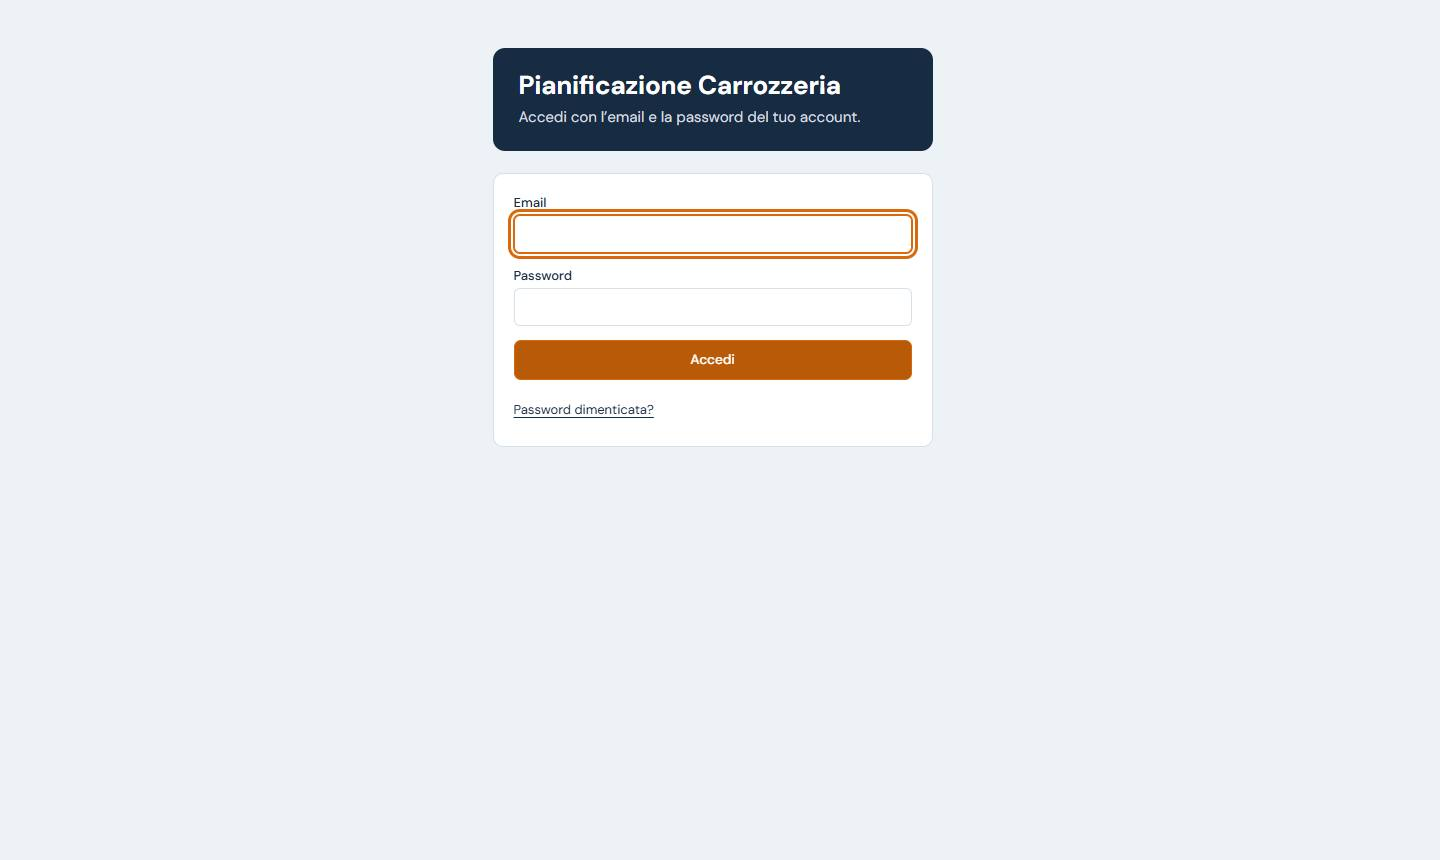
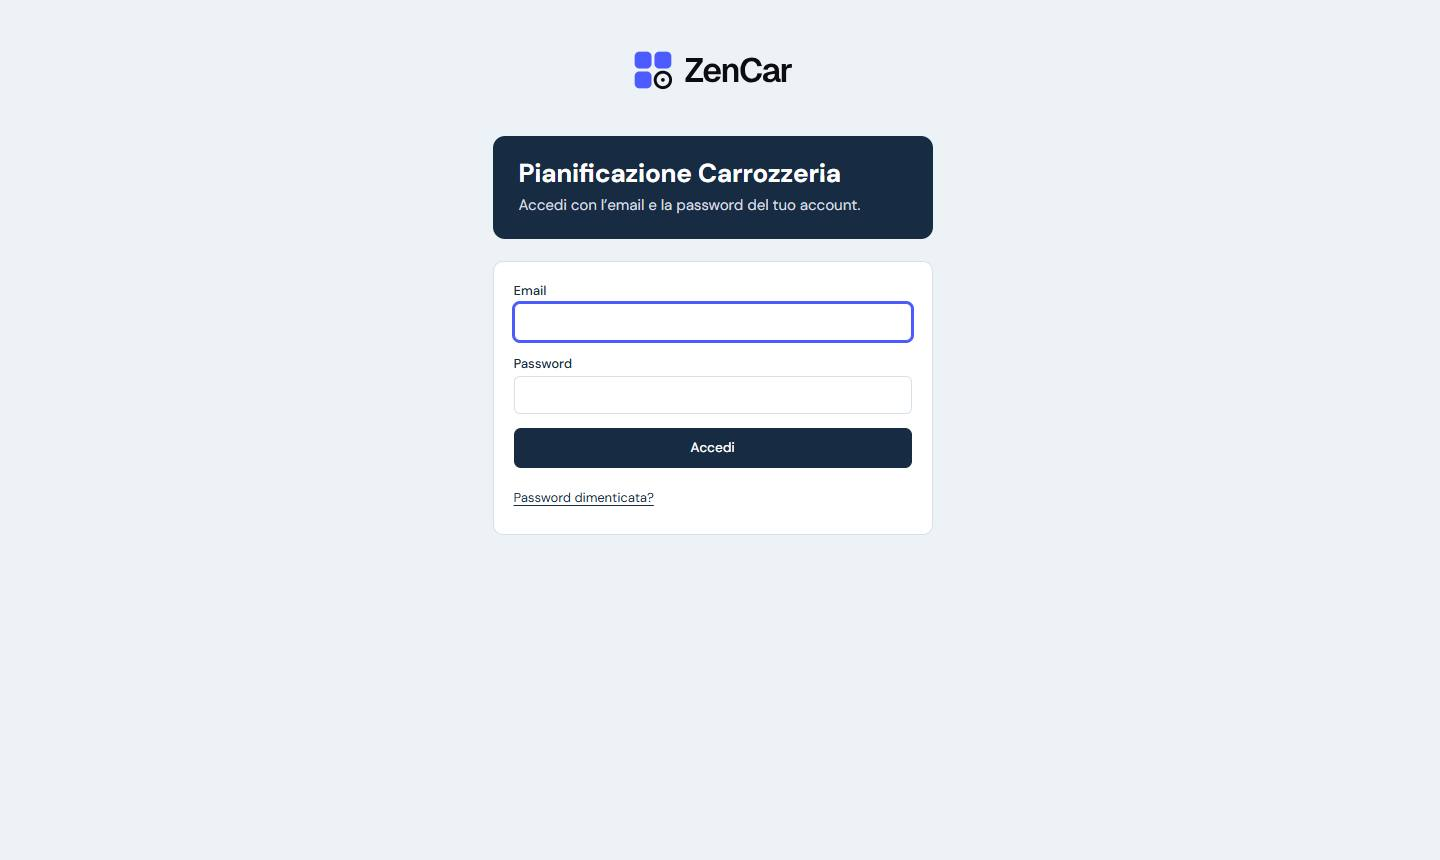
Planner 0.47.1

Changed region(s): [[0.3438, 0.0302, 0.6562, 0.3628], [0.3438, 0.393, 0.6562, 0.5442], [0.3438, 0.5744, 0.4375, 0.6047]]

diff --git a/planner/accesso.js b/planner/accesso.js
@@ -148,7 +148,8 @@ const Accesso = (() => {
         campi: '<label>Nuova password<input type="password" name="password" autocomplete="new-password" required minlength="' + PW_MIN + '"></label>' +
           '<label>Ripeti la password<input type="password" name="conferma" autocomplete="new-password" required minlength="' + PW_MIN + '"></label>', fondo: '' }
     }[modo];
-    vista('Accesso').innerHTML = `<div class="lcard stretta"><div class="lhead"><h1>Pianificazione Carrozzeria</h1><p>${M.sotto}</p></div>
+    // logo ZenCar sopra il riquadro (2026-11-18, proposta C)
+    vista('Accesso').innerHTML = `<div class="lcard stretta"><div class="llogo" role="img" aria-label="ZenCar">${LOGO}</div><div class="lhead"><h1>Pianificazione Carrozzeria</h1><p>${M.sotto}</p></div>
       ${msg ? `<p class="lerr" role="alert" id="accErr">${esc(msg)}</p>` : ''}${ok ? `<p class="lok" role="status">${esc(ok)}</p>` : ''}
       <form class="modulo" data-modo-form="${modo}" novalidate${msg ? ' aria-describedby="accErr"' : ''}>${M.campi}<button type="submit" class="btn pri">${M.pulsante}</button>${M.fondo ? `<div>${M.fondo}</div>` : ''}</form></div>`;
     const em = box.querySelector('input[name=email]'); if (em && email0) em.value = email0;

diff --git a/planner/accesso.css b/planner/accesso.css
@@ -716,3 +716,12 @@ body.vista-tabellone > header.top, body.vista-tabellone > #main { display: none;
 #landing .lges.on { background: #ffffff30; box-shadow: inset 0 0 0 1.5px #ffffff60; }
 #landing.vgestore { display: block; padding: 0; }
 #landing.vgestore #conto { display: none; }
+/* Pagina di accesso (2026-11-18, proposta C scelta dal titolare): logo ZenCar sopra il riquadro; «Accedi» in blu notte come
+   i pulsanti dell'applicazione; campo selezionato nel blu del marchio (#4C5BFF), senza l'arancione */
+#landing .llogo { display: flex; justify-content: center; margin: 0 0 22px; }
+#landing .llogo svg { display: block; height: 44px; width: auto; }
+#landing .modulo .btn.pri { background: var(--navy); border-color: var(--navy); color: #fff; }
+#landing .modulo .btn.pri:hover { background: #24405f; border-color: #24405f; }
+#landing .modulo input:focus { border-color: #4C5BFF; box-shadow: 0 0 0 2px #4C5BFF; }
+#landing .modulo input:focus-visible { outline: none !important; }
+#landing .modulo .btn.pri:focus-visible { outline: 3px solid #4C5BFF !important; outline-offset: 3px; }
